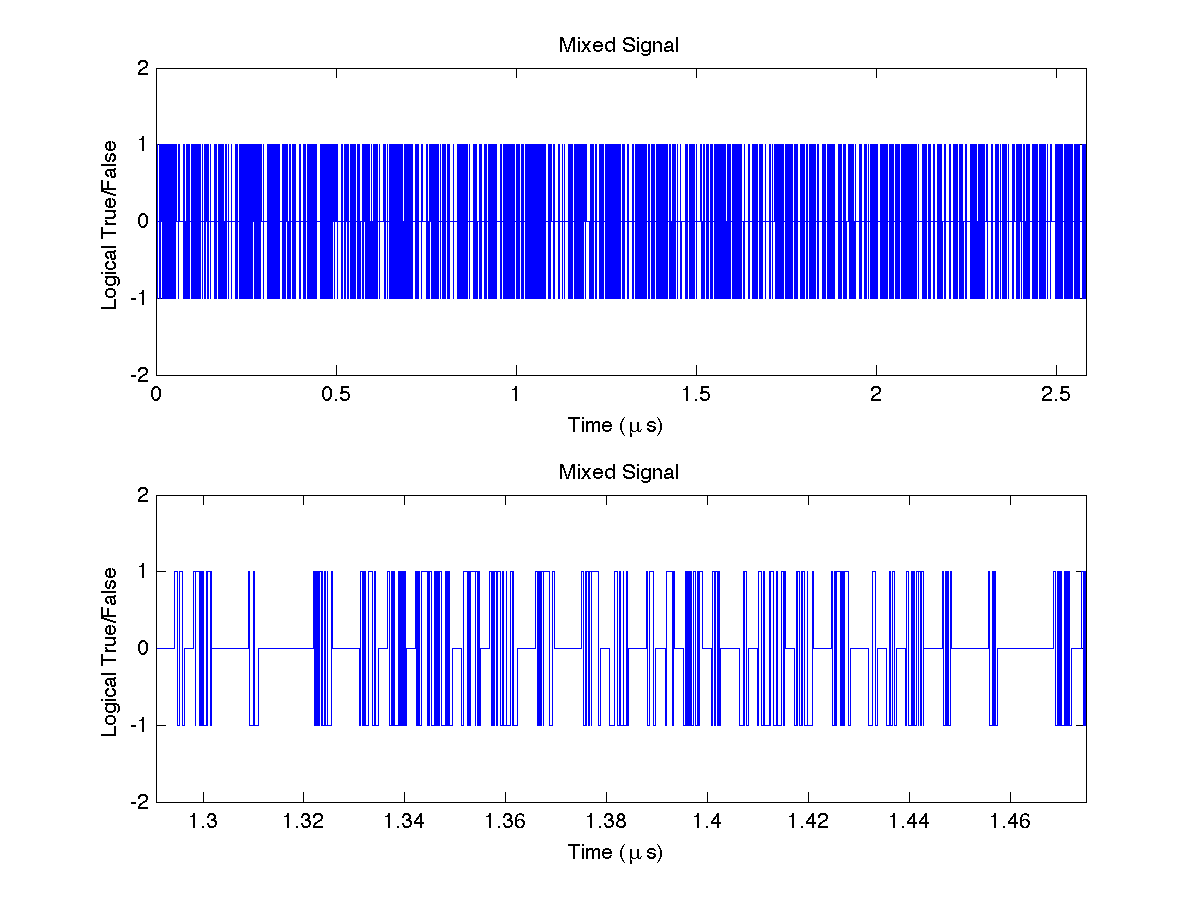
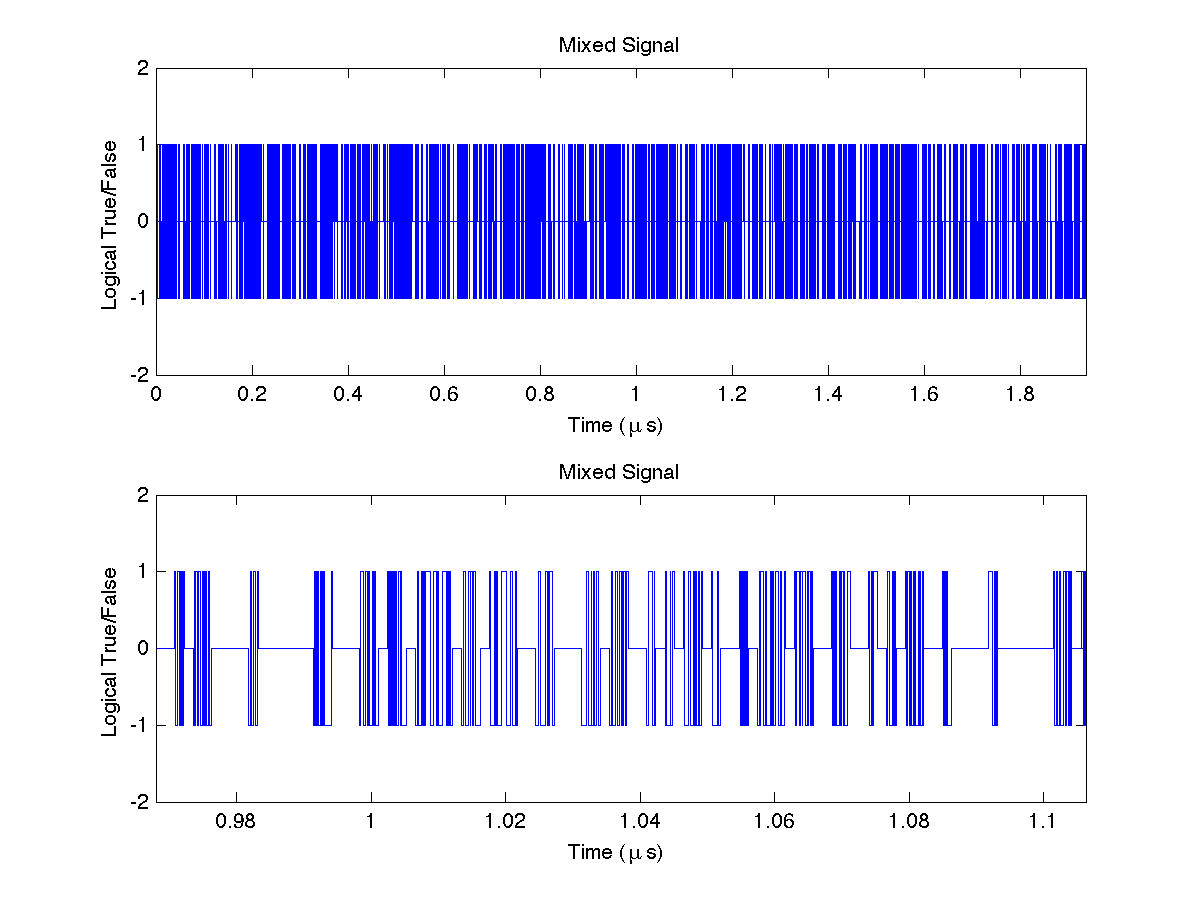
Rev 2
Its working

diff --git a/DSSS.m b/DSSS.m
@@ -15,27 +15,33 @@ filt_order = round(length(mod_sig)/3-1);
 
 % Bandlimit the signal
 
-Wn = [0.2,0.4];
+Wn = [100,1400]*2/fs;
 filter = fir1(filt_order,Wn,'bandpass');
 figure('Color',[1 1 1]);
 freqz(filter);
 xlim([0 fs/2]);
 blmod_sig = filtfilt(filter,1,mod_sig);
 
-figure('Color',[1 1 1]);
-plot(t,blmod_sig,'r');
-title('Testing');
-ylim([0 2]);
+[X f] = ComputeSpectrum(blmod_sig,fs,2^16);
 
+figure('Color',[1 1 1]);
+subplot(2,1,1);
+plot(t,blmod_sig,'r');
+title('Bandlimited Signal');
+ylim([0 2]);
+subplot(2,1,2);
+plot(f,X,'b');
+title('Bandlimited Signal');
+ 
 % Modulate the signal
-fc = 1500; % 1 MHz
+fc = 3000; % 1 MHz
 [tc Tp] = create_signal(fc,fs,len);
 A = abs(max(encode));
 carrier = cos(2*pi*tc/Tp);
 carrier = carrier(1:length(encode));
 
 A = abs(max(encode));
-dsblc_mod_sig = (blmod_sig + A).*carrier;
+dsblc_mod_sig = (mod_sig + A).*carrier;
 
 [X f] = ComputeSpectrum(dsblc_mod_sig,fs,2^16);
 
@@ -47,11 +53,13 @@ subplot(2,1,2);
 plot(f,X);
 title('DSB-LC Modulate Signal FFT');
 
-output = SYNCH_DEMOD(t,dsblc_mod_sig,blmod_sig,carrier,fs,1400,0,2000,filt_order);
+output = SYNCH_DEMOD(t,dsblc_mod_sig,blmod_sig,carrier,fs,1400,50,2000,filt_order);
 
 % Receive the signal and analyze it for errors
 
-Despread(t,output,prbn,encode,bitres);
+info_sig = Despread(t,dsblc_mod_sig,prbn,encode,bitres);
+
+% message = binaryVectorToASCII(info_sig);
 
 % Generate DSB-LC AM signal for comparision
 

diff --git a/DSSS_signal_generation.m b/DSSS_signal_generation.m
@@ -12,7 +12,7 @@ for x = 1:length(string)
     data = [data,bit];
 end
 
-%data = ['0','1','0','1','0','1'];
+%data = ['0','0','0','1','0','1','0','0','0','1','0','1','0','0','0','1','0','1'];
 % Encode the signal for voting
 bitres = 11;
 encode = [];
@@ -50,7 +50,7 @@ end
 
 % Time plotting
 
-fs = 6000; % ~2 GHz
+fs = 8000; % ~2 GHz
 factor = 1;
 tend = len/fs;
 tscale = tend*factor;

diff --git a/SYNCH_DEMOD.m b/SYNCH_DEMOD.m
@@ -46,7 +46,7 @@ xlim([fn fp]);
 % provides an error based on that comparision.
 
 %sampled_signal = window.*mt;
-filter = fir1(filt_order,550*2/fs,'high');
+filter = fir1(filt_order,fn*2/fs,'high');
 output = filtfilt(filter,1,new_sig);
 atten = max(output);
 orig = max(sampled_signal);

diff --git a/Despread.m b/Despread.m
@@ -1,4 +1,4 @@
-function Despread(t,mod_sig,prbn,encode,bitres)
+function info_sig = Despread(t,mod_sig,prbn,encode,bitres)
 % Receive Data
 
 output = mod_sig.*prbn;
